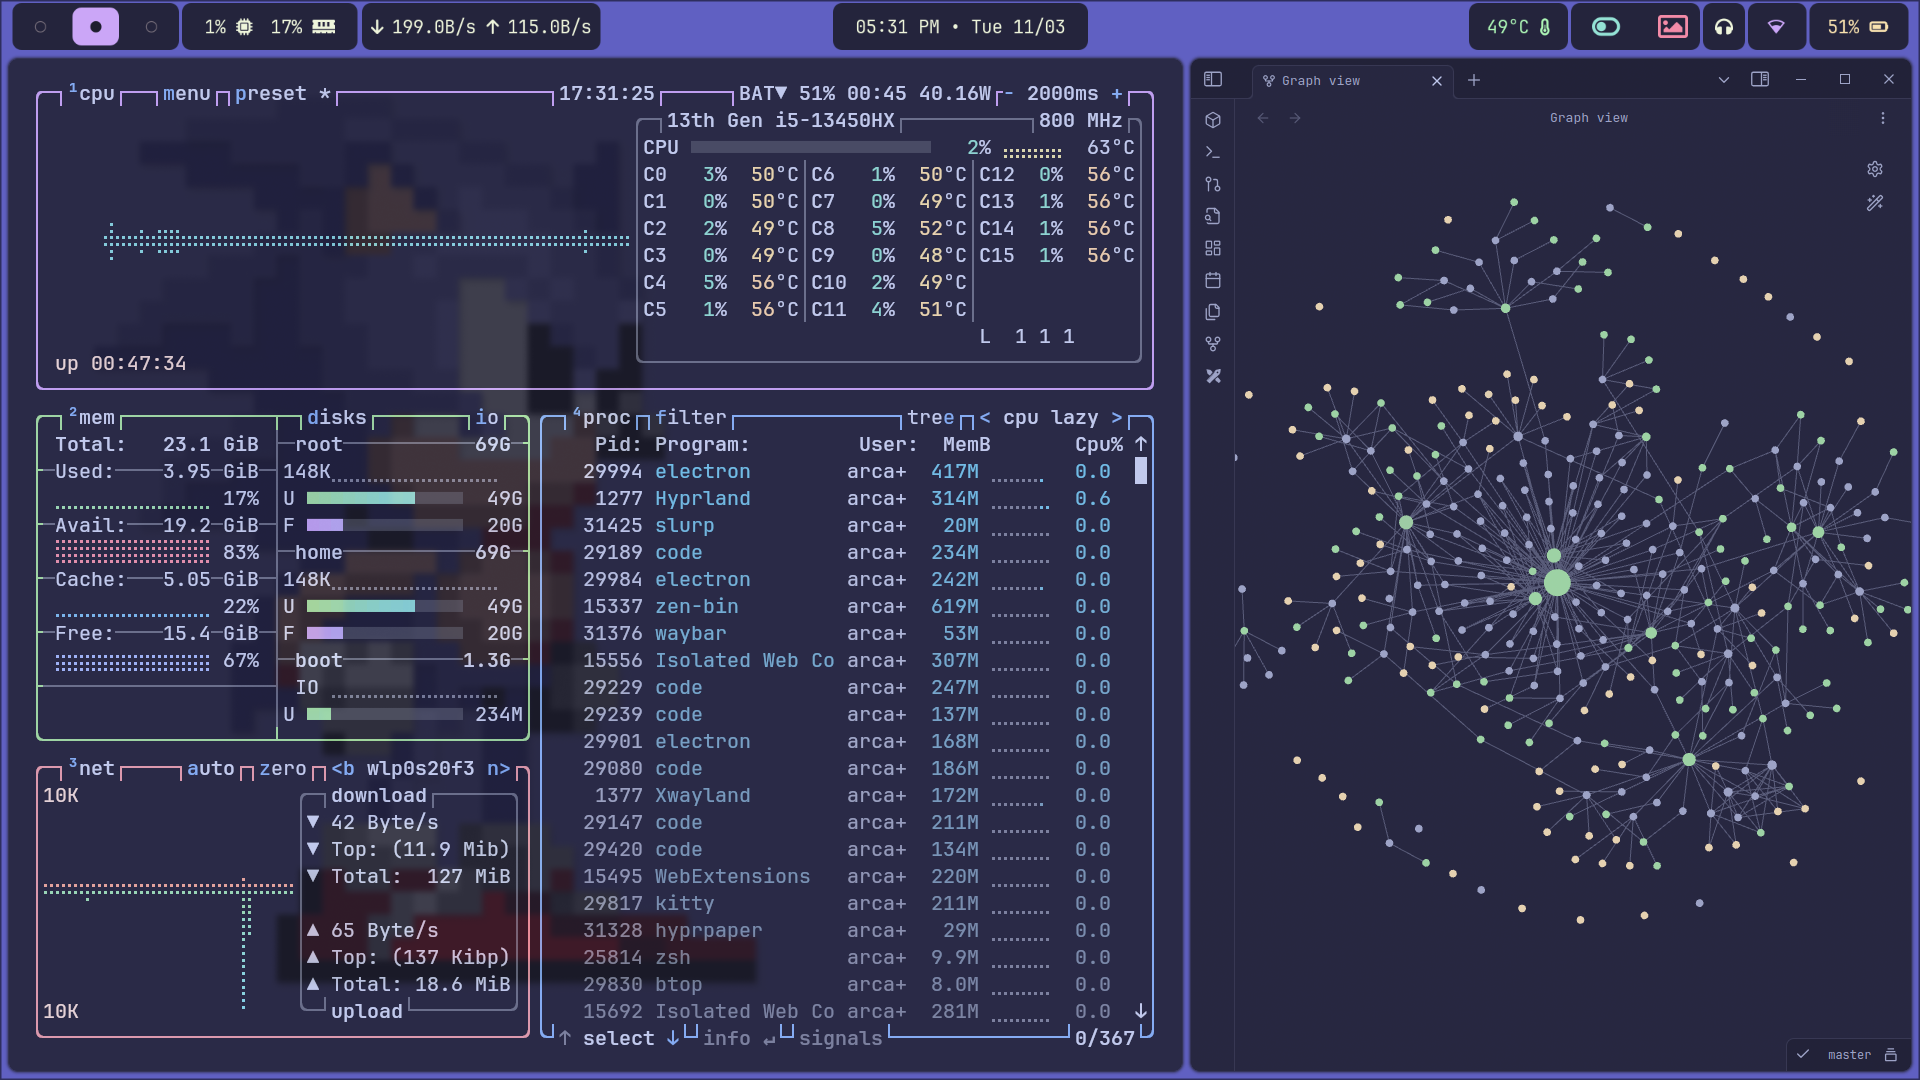
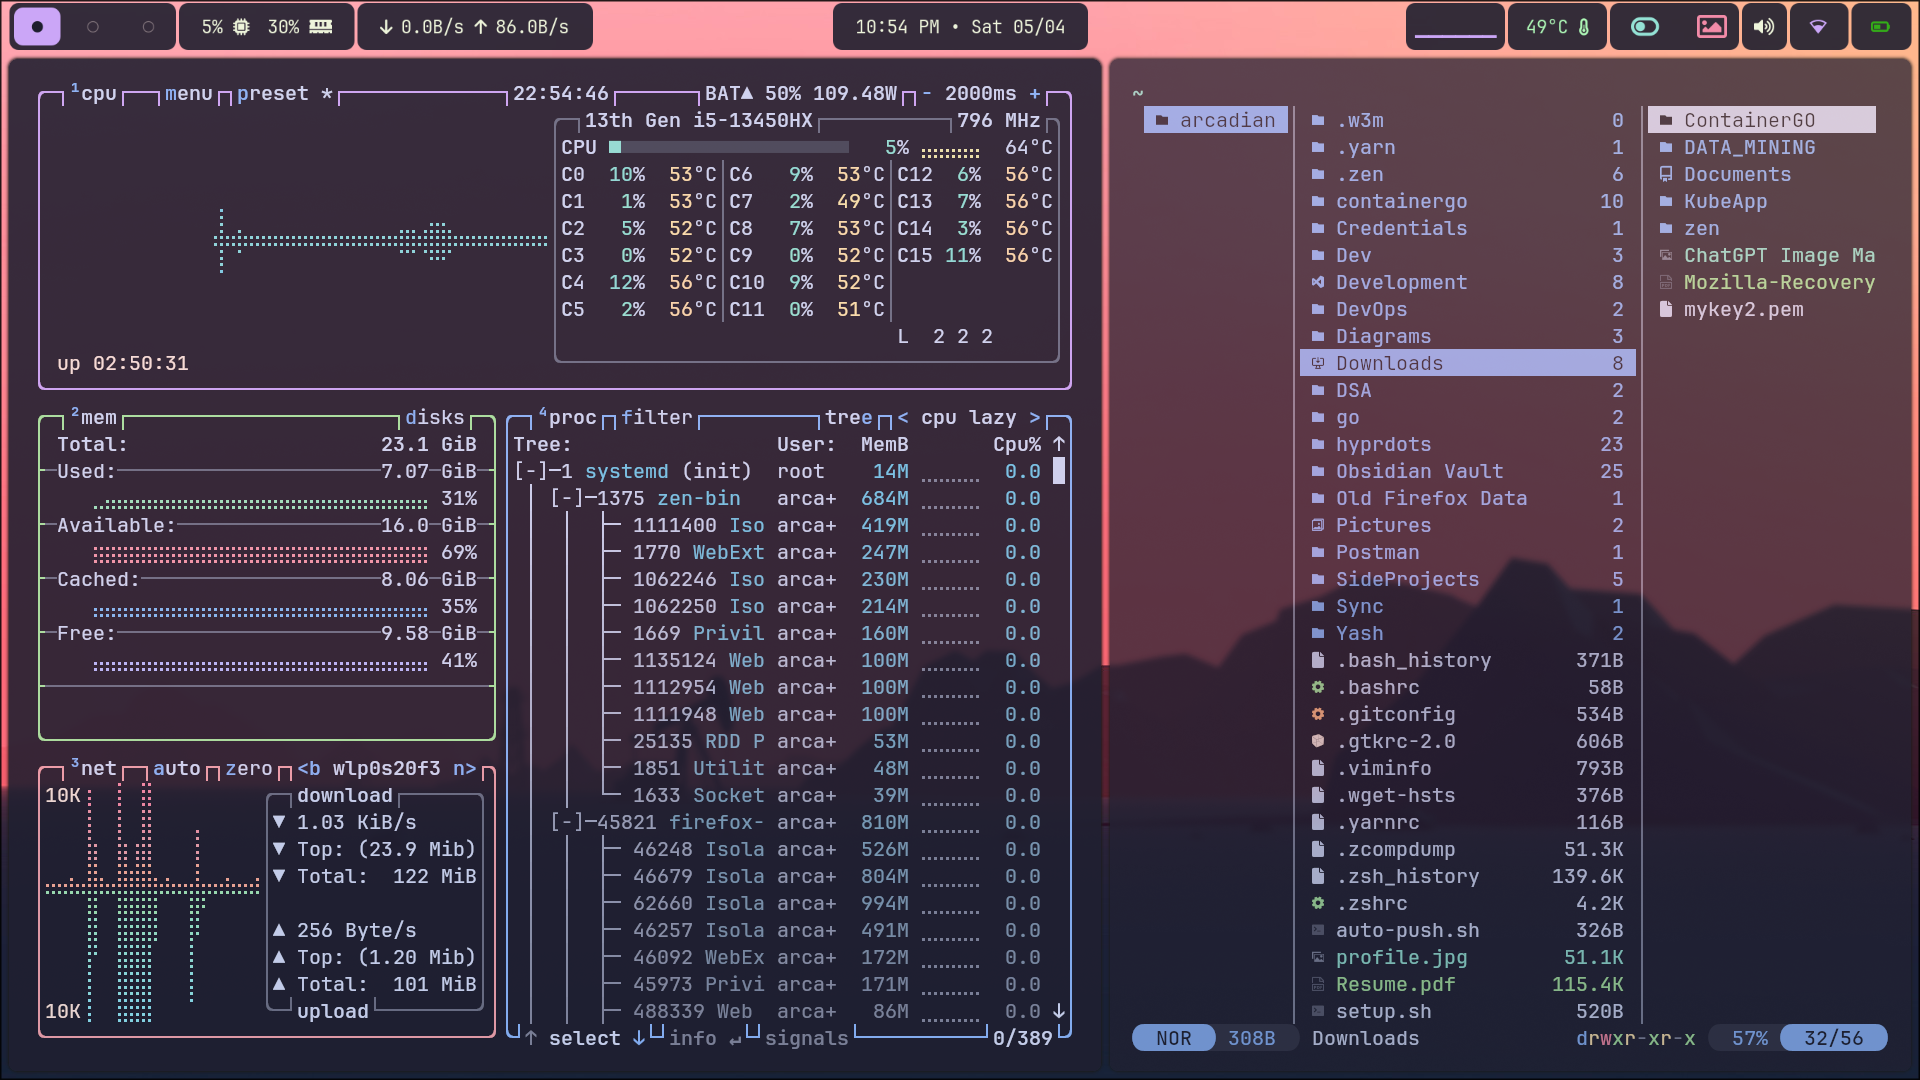
feat! : Some changes in README

diff --git a/2.md b/2.md
@@ -1,0 +1,124 @@
+````markdown
+<h1 align="center">Hyprdots - Aesthetic Dotfiles for Hyprland</h1>
+
+<p align="center">
+  <img src="https://img.shields.io/github/stars/prateekarya/hyprdots?style=for-the-badge" alt="Stars">
+  <img src="https://img.shields.io/github/forks/prateekarya/hyprdots?style=for-the-badge" alt="Forks">
+  <img src="https://img.shields.io/github/issues/prateekarya/hyprdots?style=for-the-badge" alt="Issues">
+  <img src="https://img.shields.io/github/license/prateekarya/hyprdots?style=for-the-badge" alt="License">
+  <img src="https://img.shields.io/github/last-commit/prateekarya/hyprdots?style=for-the-badge" alt="Last Commit">
+</p>
+
+<p align="center">
+  <strong>A beautiful, functional Hyprland configuration with carefully curated tools and utilities</strong>
+</p>
+
+![Screenshot Gallery](Assets/main.png)
+_Screenshots: [Main Desktop](Assets/main.png) | [Power Menu](Assets/powermenu.png) | [System Monitoring](Assets/btop.png) | [Development Environment](Assets/go.png)_
+
+## ✨ Features
+
+- **Hyprland** tiling window manager with smooth animations
+- **Minimalist** yet functional aesthetic
+- **Performance-optimized** configuration
+- **Complete ecosystem** of CLI/TUI/GUI tools
+- **Easy customization** with well-organized dotfiles
+
+## 🖥 System Overview
+
+| Category        | Components                                           |
+| --------------- | ---------------------------------------------------- |
+| **OS**          | Arch Linux (btrfs filesystem)                        |
+| **Boot Loader** | GRUB                                                 |
+| **Display**     | SDDM (Login Manager) + Hyprland (Wayland Compositor) |
+| **Audio**       | PipeWire with PulseAudio compatibility               |
+| **Fonts**       | JetBrains Mono Nerd Font (with icons support)        |
+
+## 🛠 Installation
+
+1. **Prerequisites**:
+
+   - Arch Linux (or derivative) installed
+   - Base development tools installed
+   - Git installed
+
+2. **Clone the repository**:
+   ```bash
+   git clone https://github.com/prateekarya/hyprdots.git ~/.dotfiles
+   ```
+````
+
+3. **Install dependencies**:
+
+   ```bash
+   cd ~/.dotfiles
+   ./install.sh
+   ```
+
+4. **Post-installation**:
+   - Configure SDDM to use Hyprland session
+   - Reboot your system
+
+## 🎨 Customization
+
+### Wallpapers
+
+Download additional wallpapers from the [Wallpaper Collection](https://drive.google.com/drive/folders/1Eog40yvrTshjDLVIETVncBKcDsvPLMIX?usp=sharing)
+
+### Keybindings
+
+Modify `~/.config/hypr/hyprland.conf` for window manager keybindings
+
+### Theme
+
+Edit `~/.config/waybar/style.css` for status bar customization
+
+## 🧩 Component Breakdown
+
+### GUI Environment
+
+| Component    | Purpose              | Alternative       |
+| ------------ | -------------------- | ----------------- |
+| **Hyprland** | Window Manager       | Sway              |
+| **Waybar**   | Status Bar           | Polybar           |
+| **Rofi**     | Application Launcher | Wofi, dmenu       |
+| **Thunar**   | File Manager         | Nautilus, PCManFM |
+| **Firefox**  | Web Browser          | Chromium          |
+
+### CLI Tools
+
+| Command | Replacement | Purpose                      |
+| ------- | ----------- | ---------------------------- |
+| `ls`    | `eza`       | Better file listing          |
+| `cd`    | `zoxide`    | Smarter directory navigation |
+| `cat`   | `bat`       | Syntax highlighting          |
+| `find`  | `fd`        | Faster file searching        |
+| `grep`  | `rg`        | Faster text searching        |
+
+### System Management
+
+- **Network**: NetworkManager + iwd
+- **Bluetooth**: Bluez + bluetuith (TUI)
+- **Power**: acpi, tlp, auto-cpufreq
+- **Media**: playerctl, mpv, cava (audio visualizer)
+
+## 💡 Tips & Tricks
+
+1. **Quick Launch**: `Super + Space` opens application launcher
+2. **Screenshots**: `Super + Shift + S` for area selection
+3. **Window Management**: Use `Super + W` to close windows
+4. **Terminal**: `Super + T` opens Kitty terminal
+
+## 🤝 Contributing
+
+Contributions are welcome! Please:
+
+1. Fork the repository
+2. Create a feature branch
+3. Submit a pull request
+
+## 📜 License
+
+MIT License - See [LICENSE](LICENSE) for details
+
+---

diff --git a/README.md b/README.md
@@ -1,15 +1,27 @@
-<!-- ![terminal](Assets/terminal.png) -->
+<h1 align="center">Hyprdots - Aesthetic Dotfiles for Hyprland</h1>
 
-![home](Assets/home.png)
+<p align="center">
+  <a href="https://github.com/ad1822/hyprdots/stars">
+    <img src="https://img.shields.io/github/stars/ad1822/hyprdots?style=for-the-badge" alt="Stars">
+  </a>
+  <a href="https://github.com/ad1822/hyprdots/forks">
+    <img src="https://img.shields.io/github/forks/ad1822/hyprdots?style=for-the-badge" alt="Stars">
+  </a>
+  <!-- <a href="https://github.com/ad1822/hyprdots/network/members">
+    <img src="https://img.shields.io/github/forks/your-username/hyprdots?style=for-the-badge" alt="Forks">
+  </a> -->
+  <a href="https://github.com/your-username/hyprdots/commits/main">
+    <img src="https://img.shields.io/github/last-commit/ad1822/hyprdots?style=for-the-badge" alt="Last Commit">
+  </a>
+</p>
+
+![home](Assets/main.png)
+![powermenu](Assets/k9s_cava.png)
 ![btop](Assets/btop.png)
 ![golang](Assets/go.png)
 ![powermenu](Assets/powermenu.png)
-
-<!-- ![nvim](Assets/nvim.png) -->
-
+![powermenu](Assets/go_2.png)
 ![launcher](Assets/launcher.png)
-
-<!-- ![obsidian](Assets/obsidian.png) -->
 
 ## Wallpaper
 
